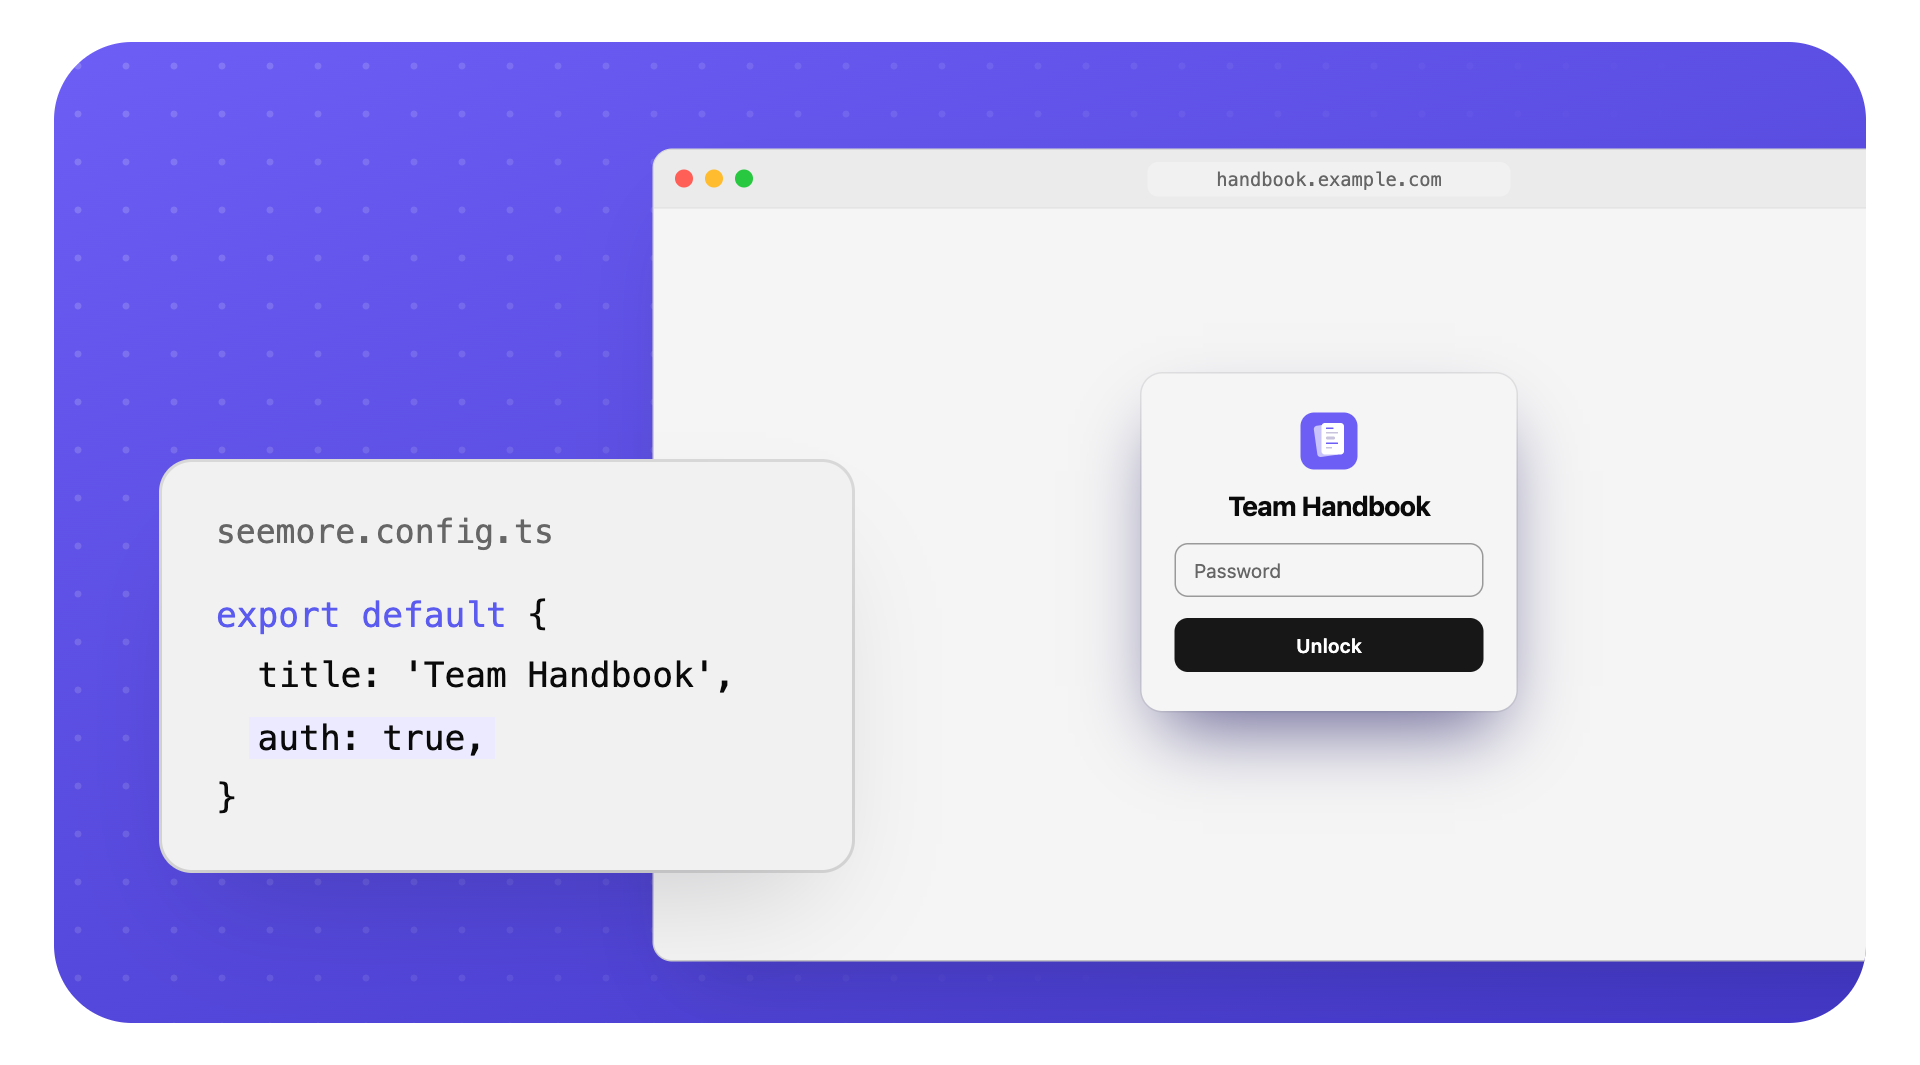
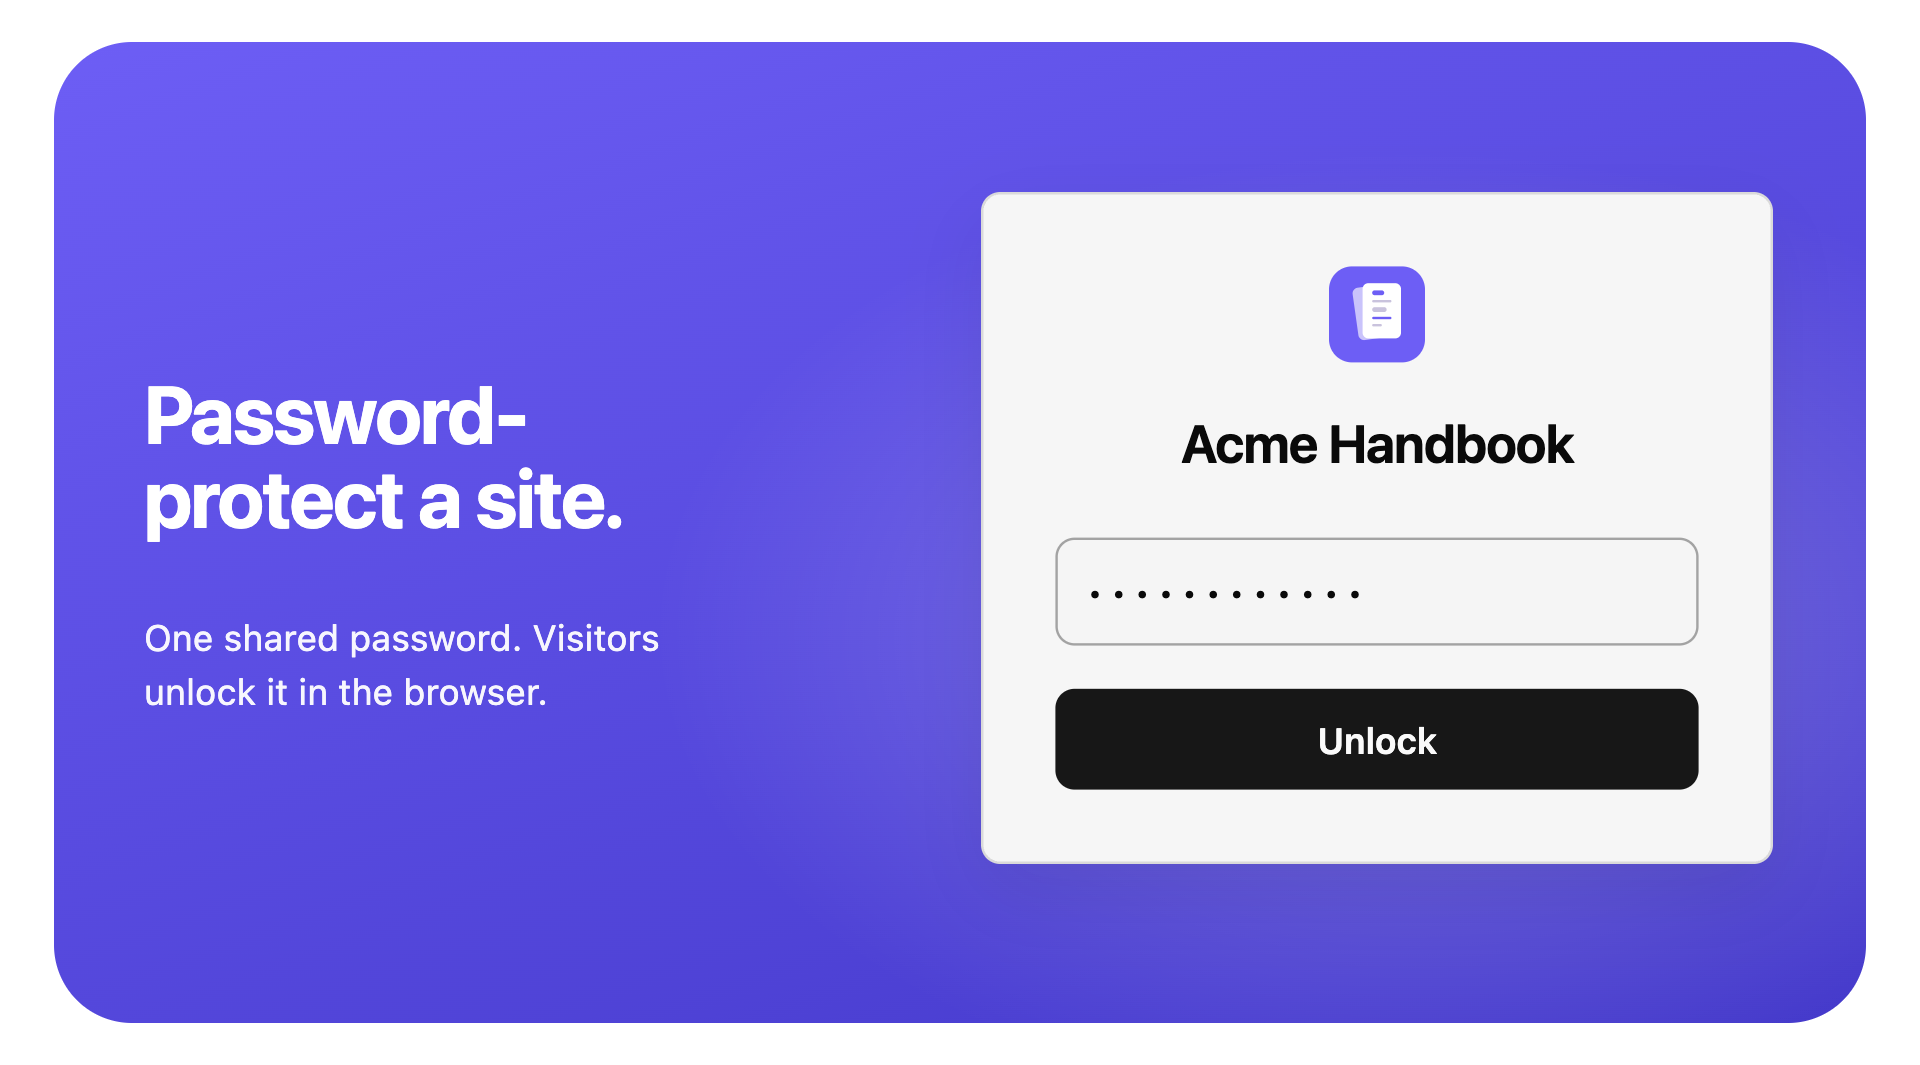
docs: themes in their real colours, lock screen image

diff --git a/README.md b/README.md
@@ -178,7 +178,7 @@ SEEMORE_PASSWORD='a-long-passphrase' npx seemore build
 ```
 
 <p align="center">
-  <img src="https://raw.githubusercontent.com/arifszn/seemore/main/packages/site/assets/password-protection.png" alt="A seemore.config.ts file with auth: true, in front of a browser window showing the site's lock screen: the site icon, the title Team Handbook, a password field and an Unlock button" width="560"/>
+  <img src="https://raw.githubusercontent.com/arifszn/seemore/main/packages/site/assets/password-protection.png" alt="The lock screen of a password-protected site: the site icon, the title Acme Handbook, a password field with a password typed in, and an Unlock button" width="560"/>
 </p>
 
 seemore encrypts the site content, so nobody can read a copy of the build without the password. A short password can be guessed offline, so use a long one.
@@ -226,7 +226,7 @@ export default {
 seemore has twelve built-in colour presets: `neutral` (default), `black`, `catppuccin`, `dusk`, `ocean`, `purple`, `ruby`, `solar`, `aspen`, `emerald`, `vitepress`, `shadcn`. Dark and light modes follow your system setting, with a toggle that remembers your choice. For anything else, put your own CSS in `css`. seemore appends it last, so it wins.
 
 <p align="center">
-  <img src="https://raw.githubusercontent.com/arifszn/seemore/main/packages/site/assets/themes.png" alt="Six seemore windows fanned out, each in a different theme: catppuccin, ocean, ruby, emerald, purple and aspen" width="640"/>
+  <img src="https://raw.githubusercontent.com/arifszn/seemore/main/packages/site/assets/themes.png" alt="Six seemore windows in a cascade, alternating light and dark, each in a different theme: aspen, ocean, ruby, purple, catppuccin and emerald" width="640"/>
 </p>
 
 The [themes page](https://arifszn.github.io/seemore/themes) shows all twelve.
